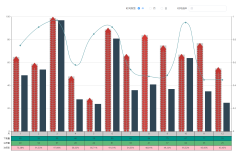
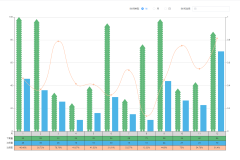
修改 echarts ap-state 示例

diff --git a/src/views/echarts/app-state.vue b/src/views/echarts/app-state.vue
@@ -32,7 +32,7 @@ export default {
         value: '',
       },
       data: [],
-      color: ['rgba(0, 0, 0, .2)', '#009688', '#5FB878', 'pink', '#FFB800','#1E9FFF',  '#FF5722'],
+      color: ["#d8d8d8", '#5FB878', "#4cb4e7", "#ffc09f", "#a3a380"],
       axisLabel: ['', '下载量', '注册量', '注册率']
     }
   },
@@ -75,6 +75,7 @@ export default {
     },
     option() {
       return {
+        color: this.color.slice(1),
         dataset: {
           source: this.data
         },
@@ -146,10 +147,8 @@ export default {
             symbolRepeatDirection: 'end',
             // symbolClip: true,
             itemStyle: {
-              // color: '#5FB878',
-              shadowColor: '#d87a7f',
-              shadowBlur: 5,
-              shadowOffsetY: 2
+              shadowColor: '#e5e5e5',
+              shadowBlur: 1
             },
             z: 2
           },

diff --git a/src/components/svg/template.vue b/src/components/svg/template.vue
@@ -17,8 +17,9 @@
 <script>
 import { html as beautify } from 'js-beautify'
 import MObserver from 'm-observer'
-
 import MdCode from '@/components/markdown-code.vue'
+
+let observer = new MObserver()
 
 export default {
   components: {
@@ -87,10 +88,13 @@ export default {
       }
       let el = document.getElementById(this.id)
       this.html = beautify(el.innerHTML, option)
-      MObserver.attributeChild(el, (list) => {
+      observer.attributeChild(el, (list) => {
         this.html = beautify(el.innerHTML, option)
       })
     })
+  },
+  beforeDestroy() {
+    observe.clear()
   }
 }
 </script>
